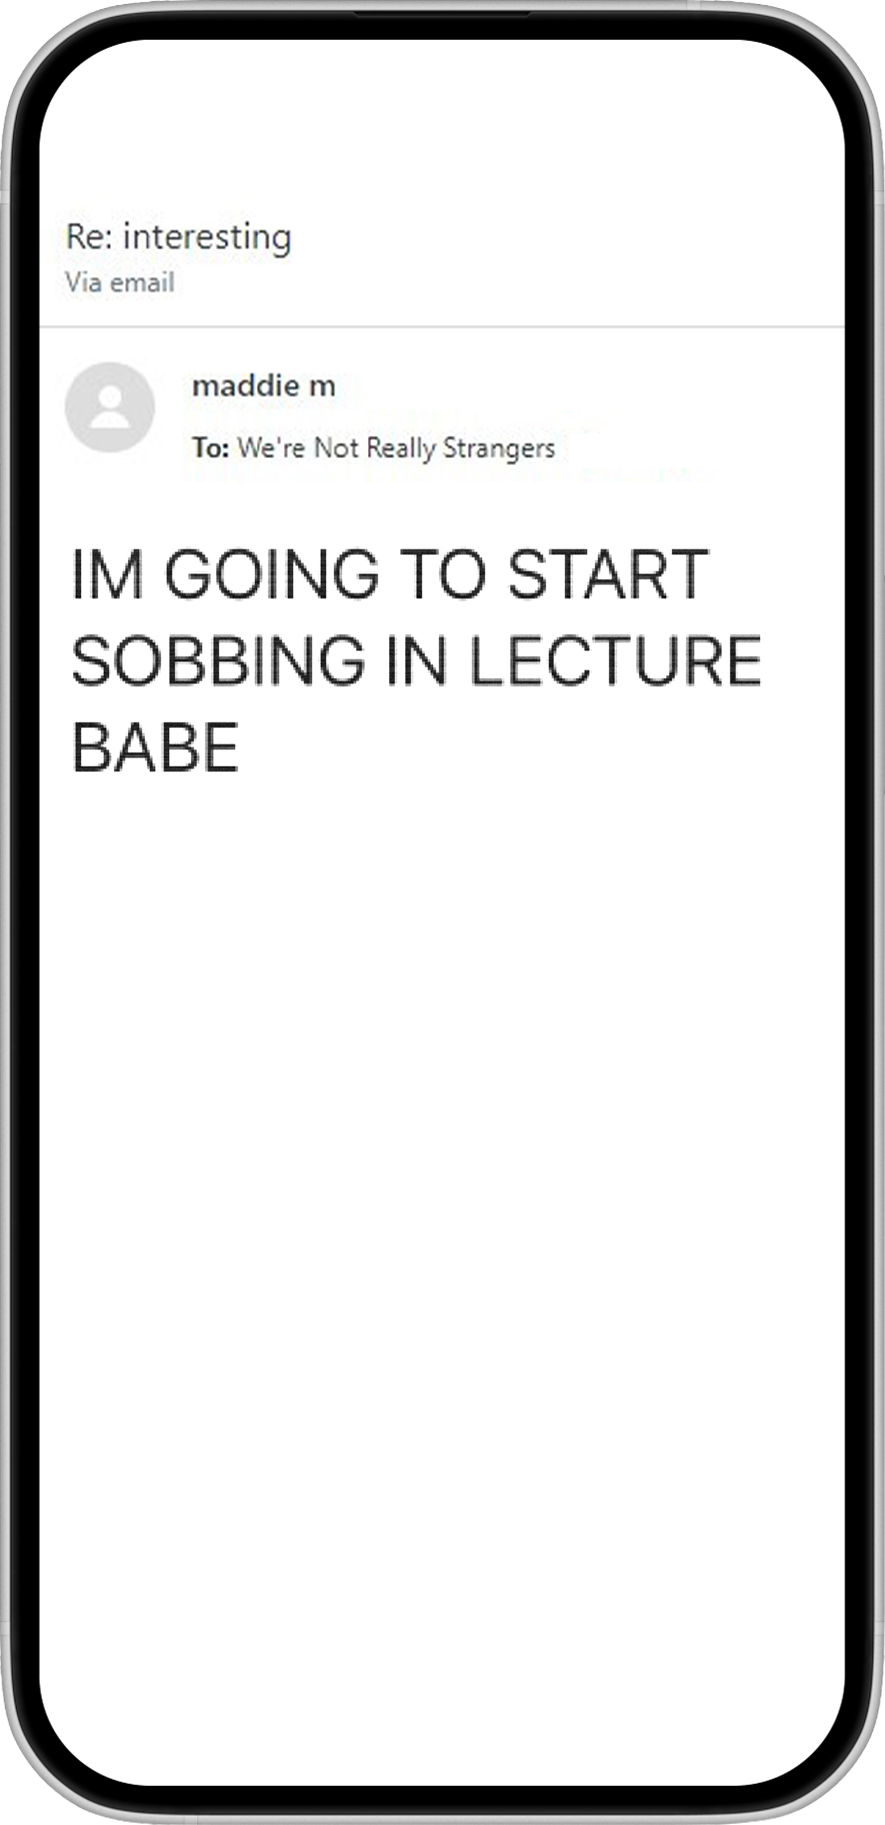
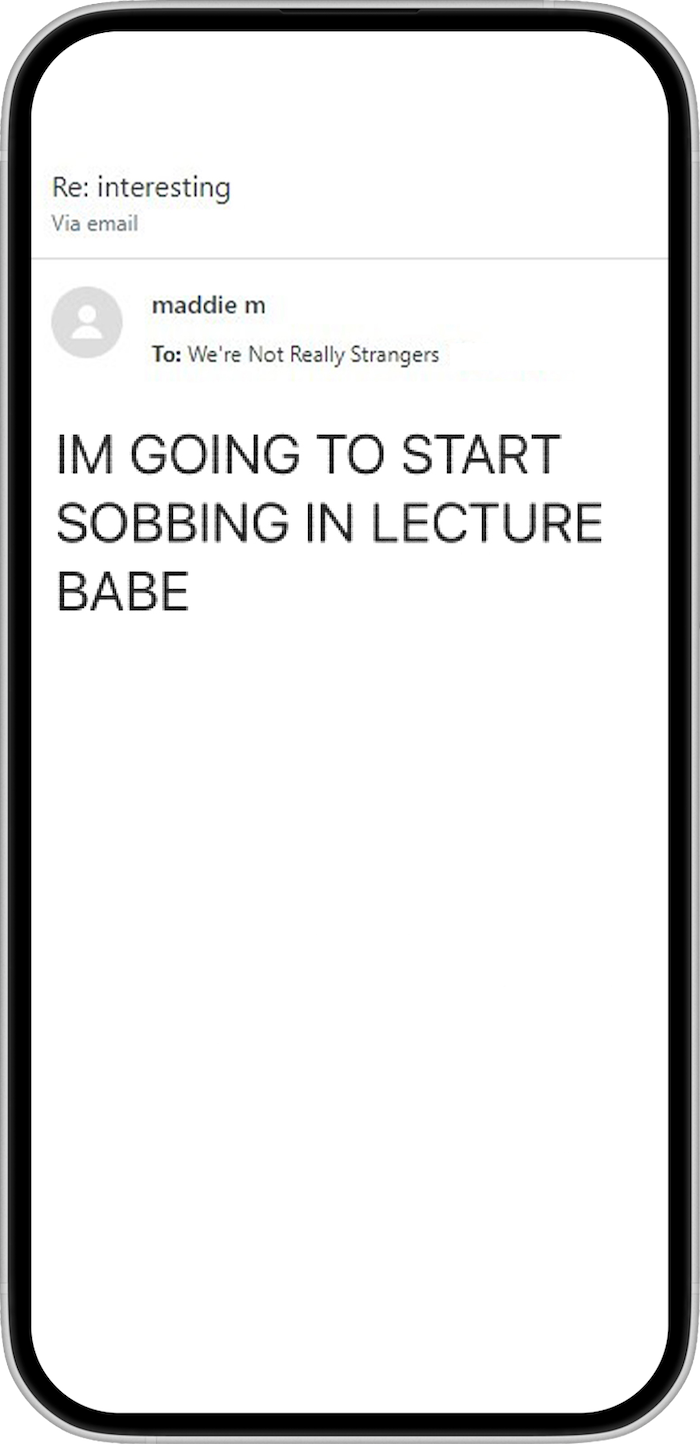
Update mobile text styles

Changed region(s): [[0.42, 0.3428, 0.45, 0.374]]

diff --git a/projects/piggy/piggy-0.html b/projects/piggy/piggy-0.html
@@ -1,9 +1,9 @@
-<div class = "container gradient-anim pad layout c">
-  <div class = "sec-a">
+<div class = "container gradient-anim pad layout c ">
+  <div class = "sec-a ">
     <h1>I completed this project to refine my end-to-end UX workflow and deepen my product design skill set.</h1>
   </div>
   
-  <div class = "sec-b">
+  <div class = "sec-b text">
     <h3>Key focuses included:</h3><br>
     <bodycopy>
       <ul>
@@ -28,7 +28,7 @@
     <h1>Preface</h1>
    
   </div>
-  <div class="small-pad sec-b">
+  <div class="small-pad sec-b  text">
     <bodycopy>
       I started this project with lots of ideas and built out two user journeys in parallel. 
       Over time, I realized focusing on one would’ve made the experience clearer, saved time, 
@@ -43,7 +43,7 @@
 
 
 <div class="piggy sage layout d container pad">
-  <div class="small-pad sec-a">
+  <div class="small-pad sec-a text">
     <h1>
       With rising costs and stagnant wages, more people are splitting expenses,
       yet most budgeting tools are built for individuals
@@ -57,9 +57,9 @@
   </div>
 </div>
 
-<div class="piggy matcha layout a container pad">
+<div class="piggy matcha layout a container text pad">
   <div class="sec-a small-pad"><h1>User research: Key findings</h1></div>
-  <div class="sec-b small-pad">
+  <div class="sec-b small-pad ">
     <bodycopy>
       Participants find it challenging to navigate different spending habits,
       approaches to money, & tools.<br /><br />
@@ -74,14 +74,14 @@
     <br />
     <bodycopy>
       I interviewed five working adults aged 18 to 40 to explore how they manage
-      shared <br />expenses, their emotions around it, and what excites them
+      shared expenses, their emotions around it, and what excites them
       about group savings.
     </bodycopy>
   </div>
 </div>
 
 
-<div class="piggy sage layout d container">
+<div class="piggy sage layout d container text">
   <div class="pad sec-a">
     <h3>Problem statement</h3><br>
     <bodycopy>Ashley needs a budgeting app anyone can learn and use together.</bodycopy><br><br>
@@ -94,7 +94,7 @@
   </div>
 </div>
 
-<div class="piggy matcha layout d reverse container">
+<div class="piggy matcha layout d reverse container text">
   <div class="sec-a"  style="overflow: hidden;">
     <img data-src="/images/piggy/natalie.jpg" style = "height: 100%;">
   </div>
@@ -107,7 +107,7 @@
   </div>
 </div>
 
-<div class="piggy sage layout d container">
+<div class="piggy sage layout d container text">
   <div class="pad sec-a">
     <h3>Problem statement</h3><br>
     <bodycopy>Elliot needs a way to manage ongoing expenses with his ex-partner.</bodycopy><br><br>

diff --git a/styles/styles.css b/styles/styles.css
@@ -441,7 +441,7 @@ a {
     margin: 0px 0px var(--gap) 0px;
     border-radius: var(--radius);
     background-color: var(--bg-color);
-    overflow-x: hidden;
+    overflow: hidden;
   }
 
   .no-pad {
@@ -545,13 +545,9 @@ a {
     max-height: 70vh;
   }
 
-  table {
-    text-align: left;
-    vertical-align: top;
-  }
-
-  td, th {
-    padding: 8px;
+  .container .text, .container.text {
+    height: auto; 
+    max-height: none;
   }
 
   .phone-wrapper {
@@ -560,7 +556,7 @@ a {
     height: auto;
     padding: 8px;
     position: relative;
-    max-width: 250px;
+    max-width: 280px;
   }
 
   .phone-wrapper img {
@@ -690,7 +686,6 @@ a {
     --gap: 32px;
     --small-gap: 16px;
   }
-
 
   main {
     height: 100vh;
@@ -920,14 +915,22 @@ a {
   }
   
   .container {
-    height: 630px;
+    height: 75vh;
+    max-height: 1000px;
     overflow-y: hidden;
+  }
+
+  .container .text, .container.text {
+    overflow-y: scroll;
+    scrollbar-width: none;
   }
 
   .phone-wrapper {
     width: 100%;
+    max-width: 250px;
     padding: 0px;
     max-height: 100%;
+    
   }
 
   .layout.a {
@@ -982,7 +985,7 @@ a {
     grid-template-areas: 
       "a b c";
     grid-template-rows: 1fr;
-    grid-template-rows: 1fr 1fr 2fr;
+    grid-template-columns: 1fr 1fr 2fr;
   }
 
   .sec-a {

diff --git a/projects/piggy/piggy-1.html b/projects/piggy/piggy-1.html
@@ -1,9 +1,9 @@
 <div class="piggy matcha layout c alt container pad">
     <div class="sec-a small-pad"><h1>Mapping the user flow</h1></div>
-    <div class="sec-b small-pad">
+    <div class="sec-b small-pad text">
       <bodycopy>
         When mapping user flow, I focused on clear, simple paths to make personal
-        finance more approachable<br /><br />
+        finance more approachable.<br /><br />
         I sketched two journeys, one for budgeting and one for splitting expenses,
         and explored several card layouts. I moved forward with a combined design.
         <br /><br />
@@ -39,7 +39,7 @@
   </div>
   
   <div class="layout d piggy sage container pad">
-    <div class="sec-a small-pad">
+    <div class="sec-a small-pad text">
       <h1>Possible features</h1>
       <h3>Anonymous poll</h3><br>
         <bodycopy>
@@ -53,7 +53,7 @@
     </div>
   </div>
   
-  <div class="piggy matcha layout a container pad">
+  <div class="piggy matcha layout a container text pad">
     <div class="sec-a small-pad"><h1>Testing initial <br>designs</h1></div>
     <div class="sec-b small-pad">
       <bodycopy>

diff --git a/projects/wnrs/wnrs-2.html b/projects/wnrs/wnrs-2.html
@@ -2,7 +2,7 @@
   <div class = "centered sec-a pad">
   <img data-src="/images/wnrs/breakupsuck.gif"></div>
 
-<div class="sec-b pad">
+<div class="sec-b pad text">
 <h1>For both loyal fans and strangers, social content needed to connect instantly</h1>
 <bodycopy>In a noisy, scrolling environment, engaging with our brand had to feel effortless, and worth it.
   We aimed for content that was visually simple, instantly understood, and emotionally sharp.
@@ -12,7 +12,7 @@
 
 
 <div class="layout d container wnrs light">
-  <div class="sec-a pad"><h1>Once subscribed, users expect polished brand emails
+  <div class="sec-a pad text"><h1>Once subscribed, users expect polished brand emails
   </h1>
       <bodycopy>
         Instead, we challenged convention by sending one-word messages, 
@@ -72,7 +72,7 @@
 
 
 <div class="wnrs layout d red container ">
-  <div class = "sec-a pad">
+  <div class = "sec-a pad text">
     <h1>Challenges</h1>
     <bodycopy>
       The challenge with email was limited space within cluttered UI, varying screen sizes, and different platform constraints: 

diff --git a/projects/wnrs/wnrs-0.html b/projects/wnrs/wnrs-0.html
@@ -3,7 +3,7 @@
 </div>
 
 <div class = "container wnrs red layout d pad">
-  <div class = "sec-a">
+  <div class = "sec-a text">
     <h1>We’re Not Really Strangers is a card game designed to create meaningful connections</h1>
     <bodycopy>Now with 10M+ followers, it’s a lifestyle brand that embodies a generation coming of age in a digital world—one that values real connection, empathy, and curiosity.</bodycopy>
   </div>
@@ -13,7 +13,7 @@
 </div>
 
 <div class = "container wnrs light layout d ">
-  <div class = "sec-a pad">
+  <div class = "sec-a pad text">
     <h1>As a senior designer, I was responsible for acquiring, engaging, and converting email subscribers</h1>
   </div>
   <div class = "sec-b centered" >
@@ -22,7 +22,7 @@
 </div>
 
 <div class = "container wnrs red pad layout b">
-  <div class = "sec-a">
+  <div class = "sec-a text">
     <h1>Key touchpoints included <br>social, email, and web</h1><br><br>
   </div>
   <div class = "sec-b" style = "margin-top:-15%;">

diff --git a/projects/piggy/piggy-2.html b/projects/piggy/piggy-2.html
@@ -12,7 +12,7 @@
     </div>
   </div>
   
-  <div class="piggy matcha layout a container pad">
+  <div class="piggy matcha layout a container text pad">
     <div class="sec-a small-pad"><h1>Testing round 2</h1></div>
     <div class="sec-b small-pad">
       <bodycopy>
@@ -42,7 +42,7 @@
   </div>
   
   <div class="piggy sage layout d alt container pad">
-    <div class="sec-a small-pad">
+    <div class="sec-a small-pad text">
       <h1>Refining round 2: Splitting expenses</h1>
       <bodycopy>
         To improve clarity around expense splitting, I added custom split options

diff --git a/projects/wnrs/wnrs-1.html b/projects/wnrs/wnrs-1.html
@@ -1,5 +1,5 @@
 <div class = "container wnrs light layout d">
-  <div class = "pad sec-a" style = "height: max-content; max-height: none;">
+  <div class = "pad sec-a text">
     <h1>One identity, many forms</h1>
     <bodycopy><b>WNRS</b> draws from brands like Apple and Humans of New York, using simplicity to center human experience.<br><br>
       We built a visual language of limited color, open space, and clear type. Photography felt raw and unfiltered, like something anyone could capture on a smartphone.<br><br>

diff --git a/projects/project-display.html b/projects/project-display.html
@@ -6,7 +6,7 @@
         </span>
     </div>
     <div class="project">
-        <img class="thumbnail"  data-src="/images/main/echo-2.gif">
+        <img class="thumbnail"  data-src="/images/main/echo.gif">
         <h4>Personal Project [in progresss]
         </h4>
     <span class = "small">A Supabase + JavaScript app for one-to-one anonymous reflection exchange. Designed and built end-to-end.

diff --git a/projects/x-edition/x-3.html b/projects/x-edition/x-3.html
@@ -10,5 +10,5 @@
 </div>
 
 <div class="wnrs container dark">
-    <img class = "full" data-src="/images/x-edition/party-2.jpg"  />
+    <img data-src="/images/x-edition/party-2.jpg" style = "height: 100%;" />
 </div>

diff --git a/projects/x-edition/x-0.html b/projects/x-edition/x-0.html
@@ -10,7 +10,7 @@
     </bodycopy>
   </div>
   <div class = "small-pad centered sec-b">
-    <img data-src="/images/x-edition/1B.jpg"/>
+    <img data-src="/images/x-edition/1B.png"/>
   </div>
 </div>
 
